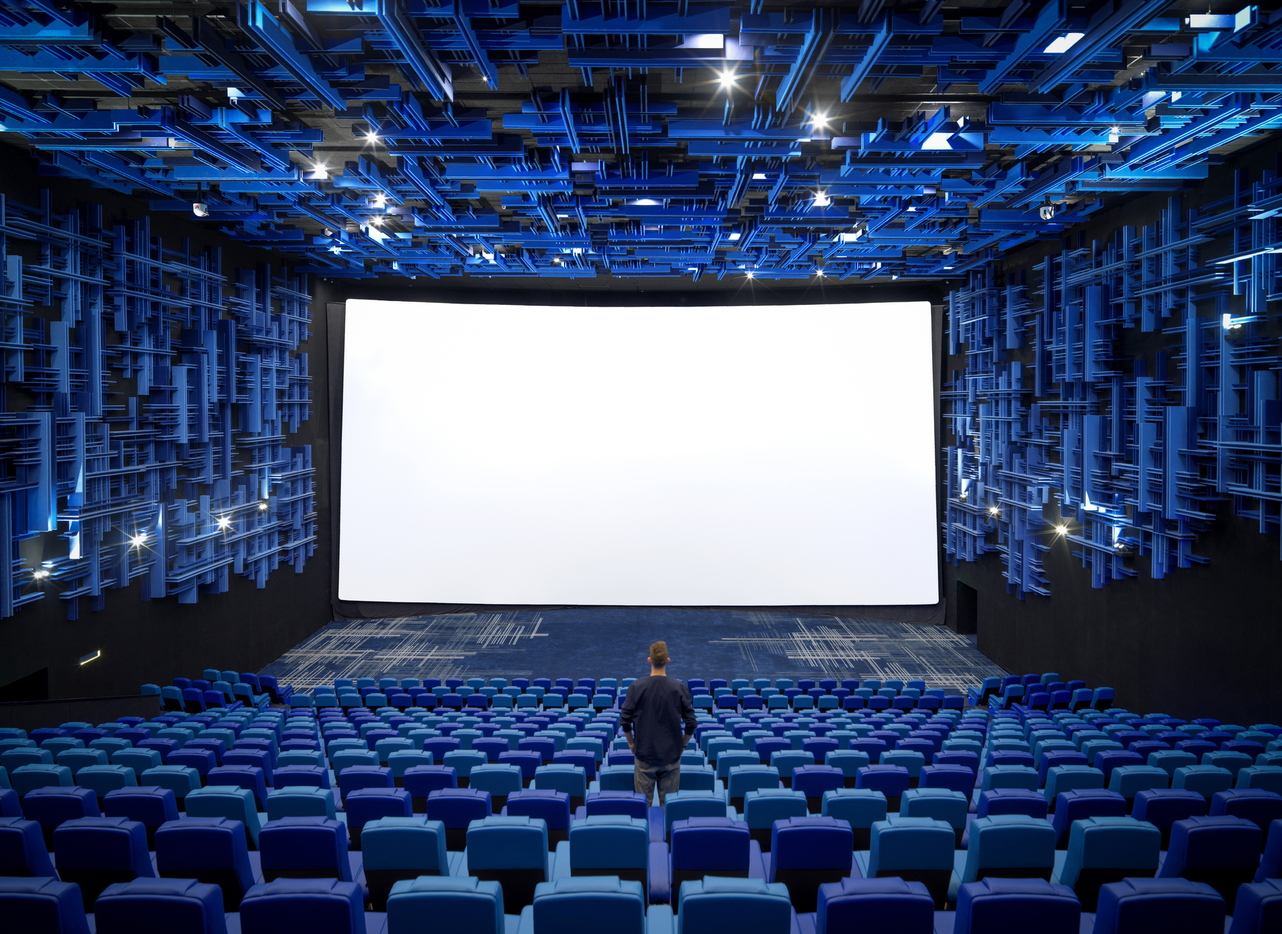
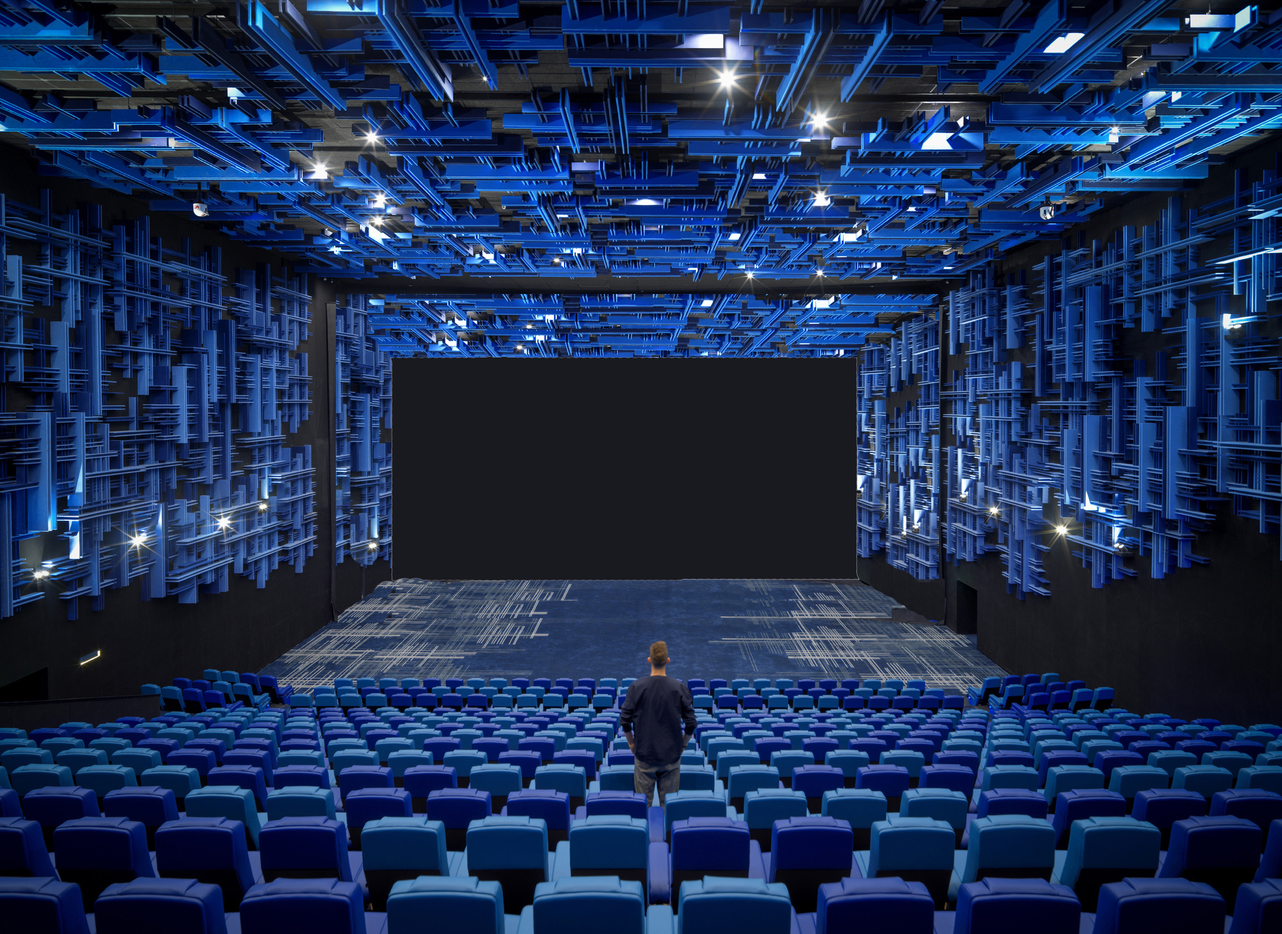
se modificó imagane de bg par carousel

Changed region(s): [[0.248, 0.3086, 0.744, 0.679]]

diff --git a/style.css b/style.css
@@ -4,7 +4,7 @@ body {
   /* background-attachment: fixed; */
 }
 .contenedor {
-  background-image: url(./img/body-img.jpg);
+  background-image: url(./img/body-img2.png);
   background-repeat: no-repeat;
   background-size: 100vw;
   background-position: center center;
